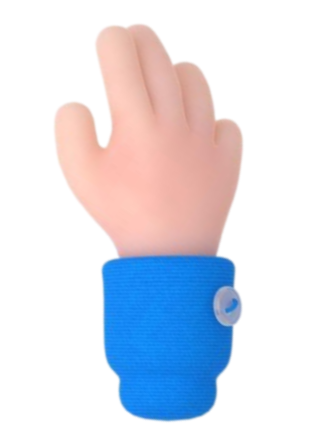
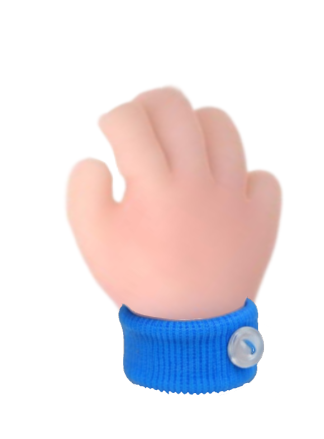
two cursors

Changed region(s): [[0.1543, 0.0296, 0.8951, 0.9772], [0.4938, 0.3257, 0.5247, 0.385], [0.463, 0.2665, 0.4938, 0.3257]]

diff --git a/Jam_CatLove/Assets/Scripts/CursorFollower.cs b/Jam_CatLove/Assets/Scripts/CursorFollower.cs
@@ -1,5 +1,6 @@
 using UnityEngine;
 using UnityEngine.InputSystem;
+using UnityEngine.UI;
 
 public class CursorFollower : MonoBehaviour
 {
@@ -9,32 +10,56 @@ public class CursorFollower : MonoBehaviour
     [SerializeField] private float smoothFactor = 0.9f;
     [SerializeField] private float rotationSpeed = 5f; // Speed of rotation
     [SerializeField] private float rotationAngle = 15f; // Max rotation angle in degrees
+    
+    [Header("Cursor Sprites")]
+    [SerializeField] private Sprite cursorOpenSprite; // Cursor sprite when mouse button is not pressed
+    [SerializeField] private Sprite cursorClosedSprite; // Cursor sprite when mouse button is pressed
 
     private Vector2 targetPosition;
     private Vector2 previousPosition;
     private RectTransform canvasTransform;
     private float currentRotation = 0f;
     private Vector2 lastMousePosition;
+    private Image cursorImage;
 
     private void Start()
     {
         Cursor.visible = false;
         canvasTransform = canvas.GetComponent<RectTransform>();
         previousPosition = cursorObject.anchoredPosition;
+        
+        // Get the Image component from the cursor object
+        cursorImage = cursorObject.GetComponent<Image>();
+        
+        // Set initial cursor sprite to open
+        if (cursorImage != null && cursorOpenSprite != null)
+        {
+            cursorImage.sprite = cursorOpenSprite;
+        }
     }
 
     private void Update()
     {
-        // Get mouse position
+        // Check for mouse button press/release and switch cursor sprite
+        if (Mouse.current != null && cursorImage != null)
+        {
+            if (Mouse.current.leftButton.wasPressedThisFrame && cursorClosedSprite != null)
+            {
+                cursorImage.sprite = cursorClosedSprite;
+            }
+            else if (Mouse.current.leftButton.wasReleasedThisFrame && cursorOpenSprite != null)
+            {
+                cursorImage.sprite = cursorOpenSprite;
+            }
+        }
+        
         Vector2 mousePosition = Mouse.current.position.ReadValue();
-
-        // Convert to canvas space
         RectTransformUtility.ScreenPointToLocalPointInRectangle(
             canvasTransform,
             mousePosition,
             canvas.worldCamera,
             out Vector2 localMousePosition
-        ); 
+        );
         
         targetPosition = lastMousePosition + ((localMousePosition + offset) - lastMousePosition) * smoothFactor;
 
